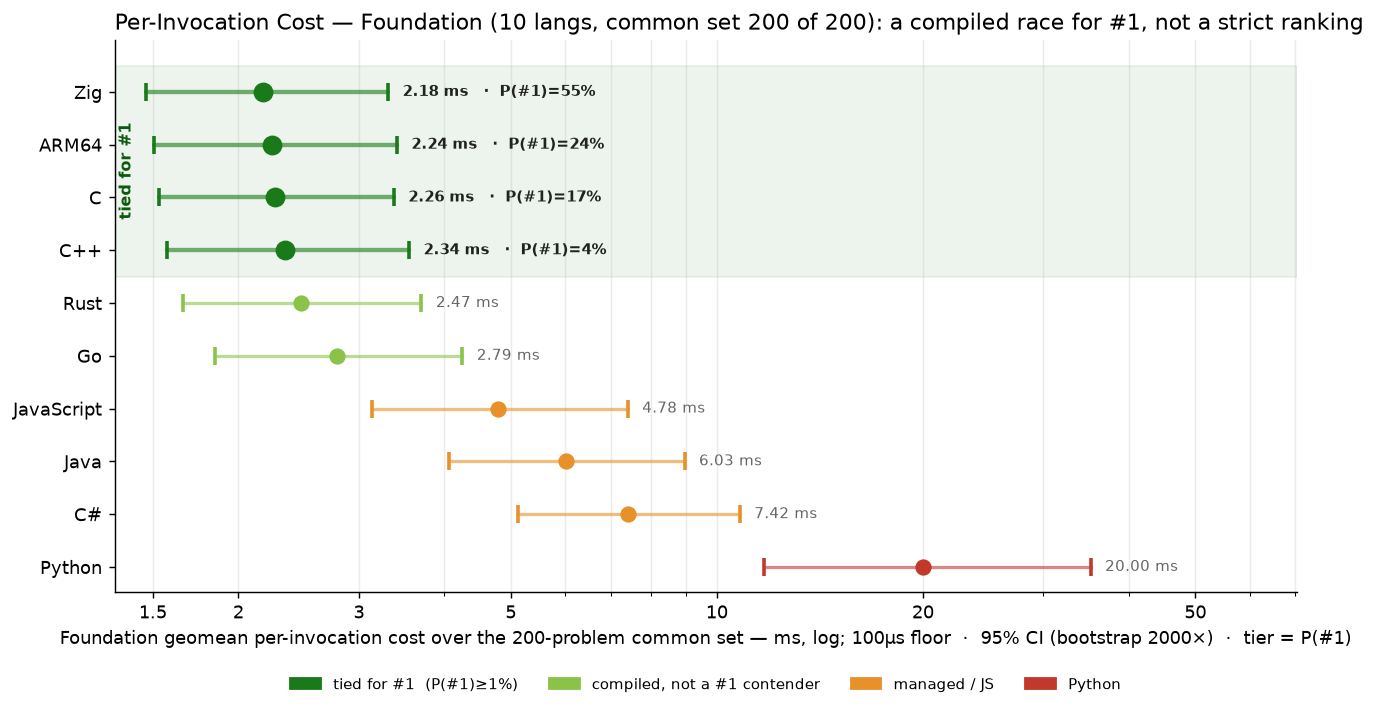
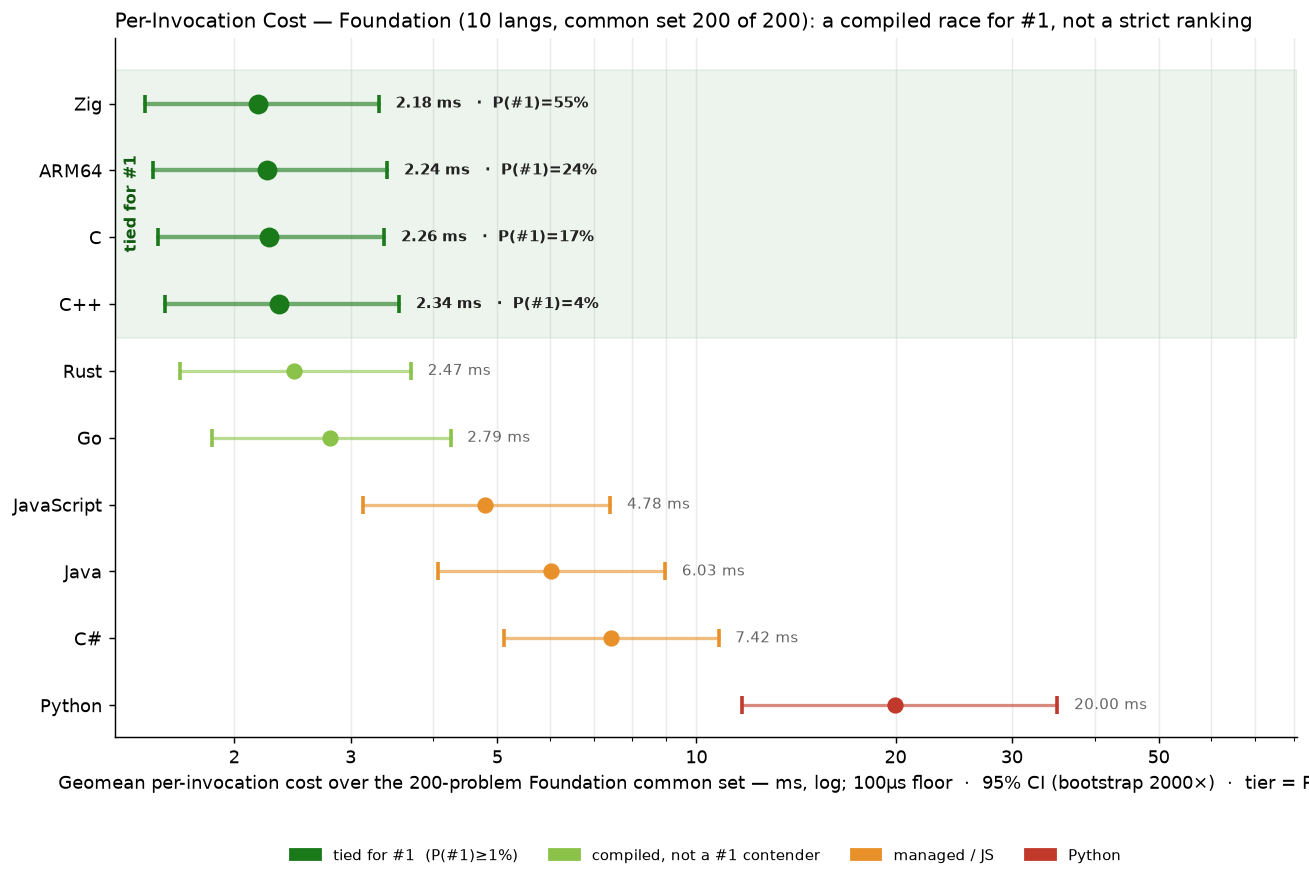
per_iter_total tier1/2/3: unified forest plots w/ bootstrap CI + adaptive tie/clear-winner; extends honest ranking to frontier max (p0948)

diff --git a/report.py b/report.py
@@ -672,6 +672,92 @@ def render_coverage_grid_chart(agg: dict) -> Path:
     return out
 
 
+def _render_forest(out_path, active, cprobs, agg, title, scope_label):
+    """Forest plot shared by all three tier charts: per-lang geomean point + 95%
+    bootstrap CI over the common-set problems, with the 'tied-for-#1' tier
+    clustered by P(#1) (probability a lang is fastest across resamples). The
+    geomean ranking among close langs is a statistical TIE, not a strict 1-N
+    order; the CIs make that explicit. Cells floored at 100µs (METHODOLOGY §6);
+    bootstrap seeded so the chart is stable across regens."""
+    import math, random
+    from matplotlib.patches import Patch
+    from matplotlib.ticker import LogLocator, FuncFormatter, NullFormatter
+    random.seed(42)
+    FLOOR = 1e5
+    active = list(active)
+    n = len(cprobs)
+    times = {l: [max((agg[l]["per_problem_ns"][p] or 0), FLOOR) for p in cprobs] for l in active}
+    gm = lambda v: math.exp(sum(math.log(x) for x in v) / len(v))
+    point = {l: gm(times[l]) / 1e6 for l in active}
+    B = 2000
+    boot = {l: [] for l in active}
+    for _ in range(B):
+        idx = [random.randrange(n) for _ in range(n)]
+        for l in active:
+            boot[l].append(gm([times[l][i] for i in idx]) / 1e6)
+    ci = {l: (sorted(boot[l])[int(.025 * B)], sorted(boot[l])[int(.975 * B)]) for l in active}
+    wins = {l: 0 for l in active}
+    for i in range(B):
+        wins[min(active, key=lambda l: boot[l][i])] += 1
+    p1 = {l: wins[l] / B for l in active}
+
+    order = sorted(active, key=lambda l: point[l])
+    leader = order[0]
+    clear_winner = p1[leader] >= 0.80  # one lang wins nearly every resample -> not a tie
+    tie = [leader] if clear_winner else [l for l in order if p1[l] >= 0.01]
+    _COMPILED = {'c', 'cpp', 'rust', 'zig', 'arm64', 'go'}
+    def _clu(l):
+        if l in tie: return 'tie'
+        if l in _COMPILED: return 'comp'
+        if l == 'python': return 'py'
+        return 'mgd'
+    _CC = {'tie': '#1a7a1a', 'comp': '#8bc34a', 'mgd': '#e8912a', 'py': '#c0392b'}
+
+    fig, ax = plt.subplots(figsize=(10.2, max(2.7, 1.7 + 0.52 * len(order))))
+    ys = list(range(len(order)))[::-1]
+    for y, l in zip(ys, order):
+        lo, hi = ci[l]; c = _CC[_clu(l)]; big = l in tie
+        ax.plot([lo, hi], [y, y], color=c, lw=2.4 if big else 1.8, alpha=.6, solid_capstyle='round')
+        ax.plot([lo], [y], '|', color=c, ms=10, mew=2)
+        ax.plot([hi], [y], '|', color=c, ms=10, mew=2)
+        ax.plot([point[l]], [y], 'o', color=c, ms=10 if big else 8, zorder=3)
+        _v = f"{point[l]:.2f} ms" if point[l] < 100 else f"{point[l]:.0f} ms"
+        lbl = _v + (f"   ·  P(#1)={round(p1[l] * 100)}%" if p1[l] >= 0.01 else "")
+        ax.text(hi * 1.06, y, lbl, va='center', fontsize=8.5,
+                color='#222' if big else '#666', fontweight='bold' if big else 'normal')
+    xlo = min(ci[l][0] for l in active) * 0.9
+    xhi = max(ci[l][1] for l in active) * 2.3
+    tys = [y for y, l in zip(ys, order) if l in tie]
+    if tys and not clear_winner:
+        ax.axhspan(min(tys) - .5, max(tys) + .5, color=_CC['tie'], alpha=.08, zorder=0)
+        ax.text(xlo * 1.06, (min(tys) + max(tys)) / 2, "tied for #1", rotation=90,
+                ha='center', va='center', fontsize=9, color='#0f5a0f', fontweight='bold')
+    ax.set_yticks(ys); ax.set_yticklabels([DISPLAY[l] for l in order], fontsize=10)
+    ax.set_xscale('log'); ax.set_xlim(xlo, xhi)
+    ax.xaxis.set_major_locator(LogLocator(base=10, subs=(1, 2, 3, 5)))
+    ax.xaxis.set_major_formatter(FuncFormatter(lambda x, _: f"{x:g}" if x < 1000 else f"{x/1000:g}k"))
+    ax.xaxis.set_minor_formatter(NullFormatter())
+    ax.set_xlabel(f"Geomean per-invocation cost over the {n}-problem {scope_label} common set "
+                  f"— ms, log; 100µs floor  ·  95% CI (bootstrap 2000×)  ·  tier = P(#1)")
+    ax.set_title(title, loc='left', fontsize=11)
+    for s in ('top', 'right'):
+        ax.spines[s].set_visible(False)
+    ax.grid(axis='x', which='both', alpha=.25)
+    present = {_clu(l) for l in active}
+    handles = []
+    if 'tie' in present: handles.append(Patch(color=_CC['tie'], label='clear #1' if clear_winner else 'tied for #1  (P(#1)≥1%)'))
+    if 'comp' in present: handles.append(Patch(color=_CC['comp'], label='compiled, not a #1 contender'))
+    if 'mgd' in present: handles.append(Patch(color=_CC['mgd'], label='managed / JS'))
+    if 'py' in present: handles.append(Patch(color=_CC['py'], label='Python'))
+    ax.legend(handles=handles, loc='upper center',
+              bbox_to_anchor=(0.5, -0.22 if len(order) <= 4 else -0.14),
+              ncol=len(handles), fontsize=8.5, frameon=False)
+    plt.tight_layout()
+    plt.savefig(out_path, dpi=130, bbox_inches="tight")
+    plt.close(fig)
+    return out_path
+
+
 def render_total_chart(agg: dict) -> Path:
     """Horizontal bar: GEOMEAN cost per language over the COMMON SET (problems
     where all 10 langs have status='pass'), sorted fastest first, log scale X.
@@ -681,89 +767,14 @@ def render_total_chart(agg: dict) -> Path:
     of slow problems, the geomean weights every problem's ratio equally.
     The common set keeps the chart apples-to-apples under partial coverage.
     """
-    # Forest plot with bootstrap uncertainty: the geomean ranking among the top
-    # compiled langs is a statistical tie, not a strict 1-N order. We show each
-    # lang's point geomean + 95% CI (bootstrap over the common-set problems) and
-    # cluster the "tied-for-#1" tier by P(#1) — the probability a lang is fastest
-    # across resamples. See METHODOLOGY.md §6.
-    import math, random
-    from matplotlib.patches import Patch
-    from matplotlib.ticker import NullFormatter
-    random.seed(42)  # deterministic bootstrap -> stable chart across regens
-
     common = agg["_common"]
-    n_common = len(common["problems"])
-    cprobs = common["problems"]
+    n = len(common["problems"])
     _t1_hi = tier_problem_range("tier_1_foundation", _TIERS)[1] or len(SCOPE_PROBLEMS)
-    FLOOR = 1e5  # 100 µs geomean floor (METHODOLOGY.md §6)
-
     active = [l for l in LANGS if common["per_lang_geomean_ns"][l] > 0]
-    times = {l: [max((agg[l]["per_problem_ns"][p] or 0), FLOOR) for p in cprobs] for l in active}
-    gm = lambda v: math.exp(sum(math.log(x) for x in v) / len(v))
-    point = {l: gm(times[l]) / 1e6 for l in active}  # ms
-
-    B, N = 2000, n_common
-    boot = {l: [] for l in active}
-    for _ in range(B):
-        idx = [random.randrange(N) for _ in range(N)]
-        for l in active:
-            boot[l].append(gm([times[l][i] for i in idx]) / 1e6)
-    ci = {l: (sorted(boot[l])[int(.025 * B)], sorted(boot[l])[int(.975 * B)]) for l in active}
-    wins = {l: 0 for l in active}
-    for i in range(B):
-        wins[min(active, key=lambda l: boot[l][i])] += 1
-    p1 = {l: wins[l] / B for l in active}
-
-    order = sorted(active, key=lambda l: point[l])   # fastest first
-    tie = [l for l in order if p1[l] >= 0.01]         # tied-for-#1 by P(#1)
-    _COMPILED = {'c', 'cpp', 'rust', 'zig', 'arm64', 'go'}
-    def _clu(l):
-        if l in tie: return 'tie'
-        if l in _COMPILED: return 'comp'
-        if l == 'python': return 'py'
-        return 'mgd'
-    _CC = {'tie': '#1a7a1a', 'comp': '#8bc34a', 'mgd': '#e8912a', 'py': '#c0392b'}
-
-    fig, ax = plt.subplots(figsize=(10.2, 5.6))
-    ys = list(range(len(order)))[::-1]  # fastest at top
-    for y, l in zip(ys, order):
-        lo, hi = ci[l]; c = _CC[_clu(l)]; big = l in tie
-        ax.plot([lo, hi], [y, y], color=c, lw=2.4 if big else 1.8, alpha=.6, solid_capstyle='round')
-        ax.plot([lo], [y], '|', color=c, ms=10, mew=2)
-        ax.plot([hi], [y], '|', color=c, ms=10, mew=2)
-        ax.plot([point[l]], [y], 'o', color=c, ms=10 if big else 8, zorder=3)
-        lbl = f"{point[l]:.2f} ms" + (f"   ·  P(#1)={round(p1[l] * 100)}%" if p1[l] >= 0.01 else "")
-        ax.text(hi * 1.05, y, lbl, va='center', fontsize=8.5,
-                color='#222' if big else '#666', fontweight='bold' if big else 'normal')
-    xlo = min(ci[l][0] for l in active) * 0.9
-    xhi = max(ci[l][1] for l in active) * 2.0
-    tys = [y for y, l in zip(ys, order) if l in tie]
-    if tys:
-        ax.axhspan(min(tys) - .5, max(tys) + .5, color=_CC['tie'], alpha=.08, zorder=0)
-        ax.text(xlo * 1.04, (min(tys) + max(tys)) / 2, "tied for #1", rotation=90,
-                ha='center', va='center', fontsize=9, color='#0f5a0f', fontweight='bold')
-    ax.set_yticks(ys); ax.set_yticklabels([DISPLAY[l] for l in order], fontsize=10)
-    ax.set_xscale('log'); ax.set_xlim(xlo, xhi)
-    ax.set_xticks([1.5, 2, 3, 5, 10, 20, 50])
-    ax.set_xticklabels(['1.5', '2', '3', '5', '10', '20', '50'])
-    ax.xaxis.set_minor_formatter(NullFormatter())
-    ax.set_xlabel(f"Foundation geomean per-invocation cost over the {n_common}-problem common set "
-                  f"— ms, log; 100µs floor  ·  95% CI (bootstrap 2000×)  ·  tier = P(#1)")
-    ax.set_title(f"Per-Invocation Cost — Foundation ({len(LANGS)} langs, common set {n_common} of "
-                 f"{_t1_hi}): a compiled race for #1, not a strict ranking", loc='left')
-    for s in ('top', 'right'):
-        ax.spines[s].set_visible(False)
-    ax.grid(axis='x', which='both', alpha=.25)
-    ax.legend(handles=[Patch(color=_CC['tie'], label='tied for #1  (P(#1)≥1%)'),
-                       Patch(color=_CC['comp'], label='compiled, not a #1 contender'),
-                       Patch(color=_CC['mgd'], label='managed / JS'),
-                       Patch(color=_CC['py'], label='Python')],
-              loc='upper center', bbox_to_anchor=(0.5, -0.13), ncol=4, fontsize=8.5, frameon=False)
-    plt.tight_layout()
-    out = CHARTS_DIR / "per_iter_total.png"
-    plt.savefig(out, dpi=130, bbox_inches="tight")
-    plt.close(fig)
-    return out
+    title = (f"Per-Invocation Cost — Foundation ({len(LANGS)} langs, common set {n} of "
+             f"{_t1_hi}): a compiled race for #1, not a strict ranking")
+    return _render_forest(CHARTS_DIR / "per_iter_total.png", active, common["problems"],
+                          agg, title, "Foundation")
 
 
 def _tier2_meta(agg: dict):
@@ -788,58 +799,12 @@ def render_total_chart_tier2(agg: dict):
     active, common, t2 = _tier2_meta(agg)
     if active is None:
         return None
-    designated = t2["designated_langs"]
-    rows = [(lang, t2["per_lang_geomean_ns"][lang]) for lang in active
-            if t2["per_lang_geomean_ns"][lang] > 0]
-    rows.sort(key=lambda r: r[1])
-    labels = [DISPLAY[lang] for lang, _ in rows]
-    values_ms = [v / 1_000_000 for _, v in rows]
-    colors = [COLOR[lang] for lang, _ in rows]
-
+    active = [l for l in active if t2["per_lang_geomean_ns"][l] > 0]
     t2_lo, t2_hi = tier_problem_range("tier_2_deep_coverage", _TIERS)
-    fig, ax = plt.subplots(figsize=(10, 3.5))
-    y_pos = range(len(labels))
-    bars = ax.barh(y_pos, values_ms, color=colors)
-    ax.set_yticks(y_pos)
-    ax.set_yticklabels(labels)
-    ax.invert_yaxis()
-    ax.set_xscale("log")
-    ax.set_xlabel(f"Geometric-mean per-invocation cost over the {len(common)}-problem "
-                  f"tier-2 common set (ms, log scale; 100 µs floor)")
-    inactive = [l for l in designated if l not in active]
-    inactive_note = (
-        f"  ·  awaiting: {', '.join(DISPLAY[l] for l in inactive)}"
-        if inactive else ""
-    )
-    common_lo = int(min(common))
-    common_hi = int(max(common))
-    range_note = (
-        f"spans p{common_lo:04d}–p{common_hi:04d}"
-        if (common_hi - common_lo + 1) > len(common)
-        else f"contiguous p{common_lo:04d}–p{common_hi:04d}"
-    )
-    ax.set_title(
-        f"Per-Invocation Cost — Deep Coverage (Tier 2, problems {t2_lo}-{t2_hi}, "
-        f"{len(active)} active of {len(designated)} langs{inactive_note})\n"
-        f"Common set: {len(common)} problems ({range_note}) passing in {', '.join(DISPLAY[l] for l in active)}"
-    )
-    for i, ms in enumerate(values_ms):
-        if ms >= 100:
-            label = f"{ms:.0f} ms"
-        elif ms >= 10:
-            label = f"{ms:.1f} ms"
-        elif ms >= 1:
-            label = f"{ms:.2f} ms"
-        else:
-            label = f"{ms*1000:.0f} µs"
-        ax.text(ms * 1.02, i, label, va="center", fontsize=9)
-    ax.grid(axis="x", which="major", alpha=0.3)
-    ax.grid(axis="x", which="minor", alpha=0.15)
-    plt.tight_layout()
-    out = CHARTS_DIR / "per_iter_total_tier2.png"
-    plt.savefig(out, dpi=130, bbox_inches="tight")
-    plt.close(fig)
-    return out
+    title = (f"Per-Invocation Cost — Deep Coverage (Tier 2, problems {t2_lo}-{t2_hi}, "
+             f"{len(active)} langs, common set {len(common)}): a tie, not a strict order")
+    return _render_forest(CHARTS_DIR / "per_iter_total_tier2.png", active, common,
+                          agg, title, f"tier-2 ({t2_lo}-{t2_hi})")
 
 
 def render_speed_vs_size_chart_tier2(agg: dict):
@@ -902,59 +867,14 @@ def render_total_chart_tier3(agg: dict):
     active, common, t3 = _tier3_meta(agg)
     if active is None:
         return None
-    designated = t3["designated_langs"]
-    rows = [(lang, t3["per_lang_geomean_ns"][lang]) for lang in active
-            if t3["per_lang_geomean_ns"][lang] > 0]
-    rows.sort(key=lambda r: r[1])
-    labels = [DISPLAY[lang] for lang, _ in rows]
-    values_ms = [v / 1_000_000 for _, v in rows]
-    colors = [COLOR[lang] for lang, _ in rows]
-
+    active = [l for l in active if t3["per_lang_geomean_ns"][l] > 0]
     t3_lo, t3_hi = tier_problem_range("tier_3_frontier", _TIERS)
-    t3_hi_label = f"{t3_hi}" if t3_hi else "+"
-    fig, ax = plt.subplots(figsize=(10, 3.5))
-    y_pos = range(len(labels))
-    ax.barh(y_pos, values_ms, color=colors)
-    ax.set_yticks(y_pos)
-    ax.set_yticklabels(labels)
-    ax.invert_yaxis()
-    ax.set_xscale("log")
-    ax.set_xlabel(f"Geometric-mean per-invocation cost over the {len(common)}-problem "
-                  f"tier-3 common set (ms, log scale; 100 µs floor)")
-    inactive = [l for l in designated if l not in active]
-    inactive_note = (
-        f"  ·  awaiting: {', '.join(DISPLAY[l] for l in inactive)}"
-        if inactive else ""
-    )
-    common_lo = int(min(common))
-    common_hi = int(max(common))
-    range_note = (
-        f"spans p{common_lo:04d}–p{common_hi:04d}"
-        if (common_hi - common_lo + 1) > len(common)
-        else f"contiguous p{common_lo:04d}–p{common_hi:04d}"
-    )
-    ax.set_title(
-        f"Per-Invocation Cost — Frontier (Tier 3, problems {t3_lo}{t3_hi_label if t3_hi else '+'}, "
-        f"{len(active)} active of {len(designated)} langs{inactive_note})\n"
-        f"Common set: {len(common)} problems ({range_note}) passing in {', '.join(DISPLAY[l] for l in active)}"
-    )
-    for i, ms in enumerate(values_ms):
-        if ms >= 100:
-            label = f"{ms:.0f} ms"
-        elif ms >= 10:
-            label = f"{ms:.1f} ms"
-        elif ms >= 1:
-            label = f"{ms:.2f} ms"
-        else:
-            label = f"{ms*1000:.0f} µs"
-        ax.text(ms * 1.02, i, label, va="center", fontsize=9)
-    ax.grid(axis="x", which="major", alpha=0.3)
-    ax.grid(axis="x", which="minor", alpha=0.15)
-    plt.tight_layout()
-    out = CHARTS_DIR / "per_iter_total_tier3.png"
-    plt.savefig(out, dpi=130, bbox_inches="tight")
-    plt.close(fig)
-    return out
+    hi_lbl = f"{t3_hi}" if t3_hi else "max"
+    cmax = int(max(common))
+    title = (f"Per-Invocation Cost — Frontier (Tier 3, problems {t3_lo}-{hi_lbl}, cpp/go/rust, "
+             f"common set {len(common)} up to p{cmax:04d}): the frontier race")
+    return _render_forest(CHARTS_DIR / "per_iter_total_tier3.png", active, common,
+                          agg, title, f"tier-3 frontier ({t3_lo}+)")
 
 
 def render_speed_vs_size_chart_tier3(agg: dict):
